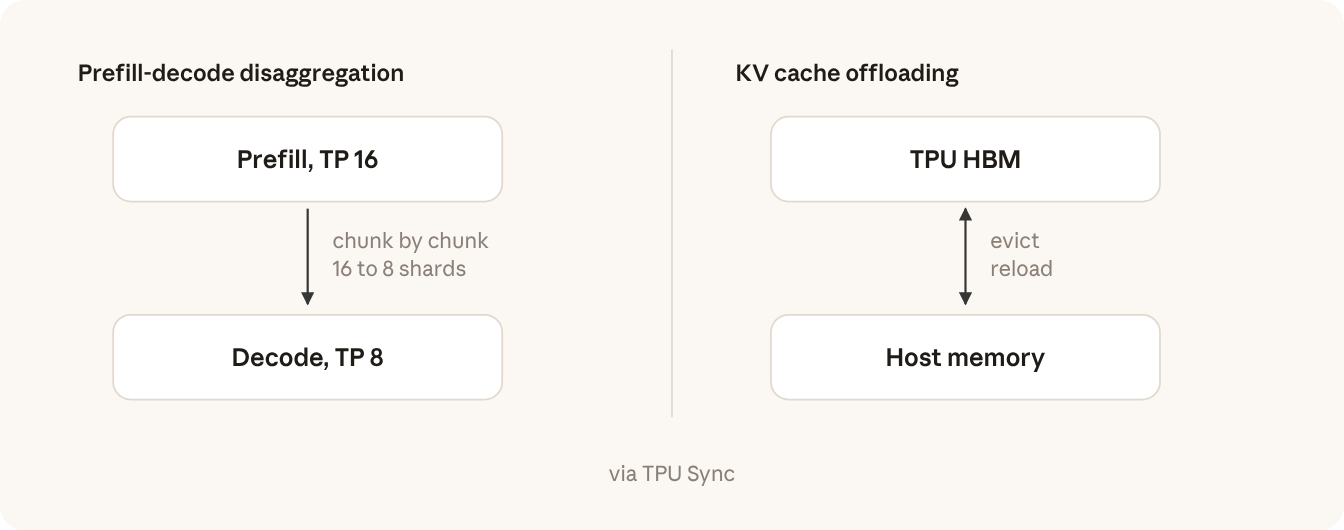
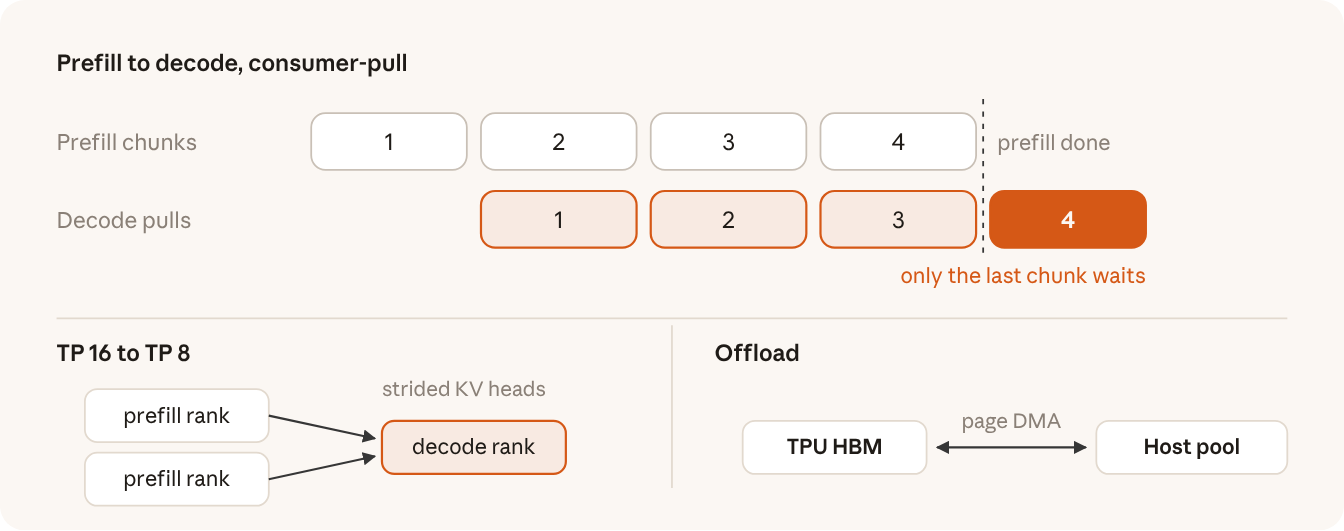
SGLang-TorchTPU post: new title, TL;DR, How it works diagrams, Built with section, Get started and Community

diff --git a/blog/2026-10-20-sglang-torchtpu.md b/blog/2026-10-20-sglang-torchtpu.md
@@ -1,5 +1,5 @@
 ---
-title: "SGLang-TorchTPU: PyTorch-Native Production Serving on TPU, Built with Google and Meta"
+title: "SGLang-TorchTPU: PyTorch-Native Production Serving on TPUs"
 author: "RadixArk, Google and Meta"
 date: "October 20, 2026"
 previewImg: /images/blog/sglang-torchtpu/hero.png
@@ -11,10 +11,11 @@ type: blog
 ## TL;DR
 
 - SGLang-TorchTPU is open source today, built by the SGLang team at RadixArk in collaboration with Google and Meta.
-- Launch models include: Muse Spark Open, GLM-5.3 Flash, GLM-5.3, Kimi K3, DeepSeek V4, Ling 3.1 Flash, Qwen3.8, Gemma 4 and MiniMax H3.
-- Production-ready for agentic workloads and large-model serving.
-- Already running in production at Meta.
-- Can serve as the rollout engine for RL training on TPU, paired with TorchTitan through Miles.
+- Launch models include Muse Spark Open, GLM-5.3 Flash, GLM-5.3, Kimi K3, DeepSeek V4, Ling 3.1 Flash, Qwen3.8, Gemma 4 and MiniMax H3.
+- The plugin brings the full SGLang feature set to TPU, ready for large agentic workloads.
+- Proven in large-scale production at Meta.
+- RL training on TPU works with SGLang-TorchTPU and TorchTitan in Miles.
+- Contributors can apply for free TPU compute from RadixArk's [community TPU capacity pool](https://docs.google.com/forms/d/e/1FAIpQLSenGavH0yrQWfcaMnVbcTg9cPyPHxMZG2LUegYJUYfai828hA/viewform).
 
 ## Introduction
 
@@ -22,13 +23,29 @@ Today we are launching SGLang-TorchTPU, a native PyTorch backend that brings SGL
 
 ## Why TorchTPU
 
-Most models today are written and served in PyTorch, and serving stacks are built on the ecosystem around it, from torch.compile to torch.distributed. We want TPU to fit into that same workflow.
+SGLang's serving engine and model implementations are built on PyTorch. With TorchTPU, the same codebase serves on both GPUs and TPUs, and TPU-specific components remain isolated in the plugin. New models and features added to SGLang could therefore become available on TPU through a single implementation.
 
-TorchTPU makes TPU a native PyTorch device that runs eagerly or compiles through XLA. SGLang-TorchTPU builds on it and brings SGLang's serving features to TPU, on top of TPU-tuned Pallas kernels.
+## How it works
+
+![SGLang core (scheduler, RadixAttention, API server) on top of the sglang-tpu plugin (Pallas ragged paged attention, paged KV cache pools, Pallas grouped matmul MoE, a graph runner that compiles once per bucket), on TorchTPU (one PyTorch process per TPU core, torch.compile to XLA), on Cloud TPU v7x.](/images/blog/sglang-torchtpu/stack.png)
+
+<p style="text-align: center; color: #6b7280; font-size: 0.875rem; font-style: italic; margin-top: 0.25rem;">Figure 1: How the sglang-tpu plugin fits into SGLang.</p>
+
+SGLang-TorchTPU is an out-of-tree plugin. Installing the sglang-tpu package registers a TPU platform with SGLang through the `sglang.srt.platforms` entry point, and `SGLANG_PLATFORM=tpu_oot` selects it. The scheduler, RadixAttention and API server are SGLang's own. The plugin fills in the parts SGLang already asks each hardware platform for: the attention backend, the KV cache pools, the MoE kernels and the graph runner.
+
+Each TPU core runs its own PyTorch process through TorchTPU, as each GPU does on CUDA. The model runs under torch.compile and lowers to XLA. There is no graph capture: instead, the runner pads each forward to a fixed set of token-count buckets for prefill and batch-size buckets for decode. Each bucket compiles once, and later steps dispatch to the cached program by shape.
+
+Attention and MoE run on Pallas kernels, registered as torch.library custom ops that Dynamo treats as opaque calls inside the compiled graph: ragged paged attention over a paged KV cache, and a grouped matmul over the sorted expert groups for MoE.
+
+When KV has to leave the device, for KV cache offloading to host memory or for prefill-decode disaggregation across hosts, it can move over [TPU Sync](https://github.com/google/tpu-sync), Google's open-source TPU DMA library. Offload copies whole KV pages between HBM and a pinned host pool by direct PJRT DMA. For disaggregation the transfer is consumer-pull: as each chunked-prefill step commits its pages, the prefill announces them and the decode side pulls that chunk while the next one computes, so only the last chunk remains to move once prefill finishes. Pages the decode already holds from its own prefix cache are never sent. When prefill and decode use different tensor-parallel sizes, TPU Sync reshards in flight: each prefill rank pushes its slice of the KV heads, strided, into the decode rank's page layout.
+
+![KV cache transfer with TPU Sync: decode pulls each prefill chunk while the next computes, so only the last chunk waits; TP 16 to TP 8 reshards strided KV heads; offload moves KV pages between TPU HBM and a host pool by DMA.](/images/blog/sglang-torchtpu/kv-transfer.png)
+
+<p style="text-align: center; color: #6b7280; font-size: 0.875rem; font-style: italic; margin-top: 0.25rem;">Figure 2: KV cache transfer with TPU Sync.</p>
 
 ## Built with Google and Meta
 
-Google built TorchTPU and worked with us on the TPU backend itself, from Pallas kernels to the TPU Sync transfer path. The SGLang team at RadixArk built the serving runtime, its TPU integration and most of the model support. Meta engineers contributed compilation and disaggregated-serving work, and brought production workloads that shaped the engine from the start.
+Google, Meta and the SGLang team at RadixArk built SGLang-TorchTPU together.
 
 > "As agentic workloads grow, serving efficiency matters more than ever, and developers want to get there on TPU without leaving PyTorch. Co-developing SGLang-TorchTPU with RadixArk and Meta gives them a production-ready engine for popular open models, with the cost efficiency of Cloud TPU."
 >
@@ -38,20 +55,6 @@ Google built TorchTPU and worked with us on the TPU backend itself, from Pallas 
 >
 > <strong style="font-style: normal;">Zongwei Zhou, PyTorch-TPU Lead, Meta</strong>
 
-## How it works
-
-![The SGLang-TorchTPU stack: SGLang core (API server, router, scheduler, RadixAttention, model code) on top of the sglang-tpu plugin (TPU layers, Pallas kernels, KV cache pools, TPU Sync), on top of TorchTPU (tpu device, torch.compile + XLA, torch.distributed), on Cloud TPU v7x.](/images/blog/sglang-torchtpu/stack.png)
-
-<p style="text-align: center; color: #6b7280; font-size: 0.875rem; margin-top: 0.25rem;">Figure 1: The SGLang-TorchTPU stack.</p>
-
-Each device runs its own PyTorch process, so SGLang's scheduler, RadixAttention and API server run unchanged. The TPU work sits underneath them. The KV cache lives in a paged pool laid out for Pallas ragged paged attention, with FP8 KV by default, and Pallas kernels for attention and MoE grouped matmul are called as PyTorch custom ops inside the torch.compile graph. All of it ships as the sglang-tpu plugin, which SGLang loads when you pass `--device tpu`.
-
-KV cache transfers between TPU devices and host memory can run on [TPU Sync](https://github.com/google/tpu-sync), Google's open-source transfer library. For KV cache offloading, it moves KV pages to a DMA-pinned host memory pool. For prefill-decode disaggregation, the decode side pulls KV from prefill chunk by chunk as each prefill step commits, so only the last chunk is left to move when prefill ends. When the two sides use different tensor-parallel sizes, KV is resharded on the way, for example from 16 prefill shards to 8 decode shards.
-
-![KV cache transfer with TPU Sync: in prefill-decode disaggregation, KV moves chunk by chunk from prefill (TP 16) to decode (TP 8); in KV cache offloading, KV is evicted from TPU HBM to host memory and reloaded.](/images/blog/sglang-torchtpu/kv-transfer.png)
-
-<p style="text-align: center; color: #6b7280; font-size: 0.875rem; margin-top: 0.25rem;">Figure 2: KV cache transfer with TPU Sync.</p>
-
 ## Feature and model coverage
 
 These are the SGLang serving features available on TPU at launch:
@@ -60,9 +63,9 @@ These are the SGLang serving features available on TPU at launch:
 | --- | --- |
 | Core serving | OpenAI-compatible API; continuous batching; chunked prefill; structured output and function calling (experimental) |
 | Agentic and multi-turn | RadixAttention prefix caching, including hybrid sliding-window and linear-attention models; KV cache offloading to host memory; tested nightly on an agentic tool-call workload |
-| Interactive, low latency | Speculative decoding with EAGLE-3, DFlash and MTP drafters; DFlash2 and DSPark (experimental) |
+| Interactive, low latency | Speculative decoding with EAGLE-3, DFlash, DFlash2, DSPark and MTP drafters |
 | High-throughput batch | Data-parallel attention with expert parallelism |
-| Long context | FP8 KV cache; context parallelism for prefill and decode (experimental) |
+| Long context | FP8 KV cache; context parallelism for prefill and decode |
 | Disaggregated serving | Prefill and decode on separate hosts, with KV resharding between different tensor-parallel sizes |
 | Multimodal | Vision-language models with image input: Qwen3-VL, Qwen3.5-VL, Kimi MoonViT and Gemma 4 vision |
 | Very large models | Tensor and expert parallelism and data-parallel attention across hosts; FP8, MXFP4 and INT4 checkpoints; pipeline parallelism and NVFP4 MoE (experimental) |
@@ -83,28 +86,27 @@ We have been working hard to bring the most popular open models to TPU at launch
 
 Also supported: gpt-oss, Qwen3-Coder-480B, Qwen3.5, DeepSeek-V3.1 and R1, Kimi-K2.6, MiMo-V2.5-Pro and Qwen3-VL.
 
-We will keep adding new models and optimizing the ones already supported, starting with DeepSeek V4.1 Flash and Reflection Beam.
+We will keep adding new models and optimizing the ones already supported, starting with DeepSeek V4.1 Flash and Reflection Beam, and we are working toward Day 0 TPU support for new open models by Q1 2027.
 
 The full list, with support tiers and per-model notes, is in [SUPPORT.md](https://github.com/sgl-project/sglang-torchtpu/blob/main/SUPPORT.md).
 
 ## Reliability
 
-Reliability is designed into how SGLang-TorchTPU is built. Every model and feature marked supported is tied to a CI test on real TPU hardware, and the support matrix is generated from those test registrations, so what we claim always reflects what we run. Features still being validated are marked Experimental until their tests pass.
+Every model and feature marked supported has a CI test on real TPU hardware, and the support matrix is generated from those test registrations. Anything still being validated stays Experimental until its tests pass.
 
 ![SGLang-TorchTPU support tiers: Experimental moves to Supported with a nightly test, and Supported moves to Optimized with accuracy and performance tests, all on TPU v7x every PR and every night.](/images/blog/sglang-torchtpu/ci-tiers.png)
 
-<p style="text-align: center; color: #6b7280; font-size: 0.875rem; margin-top: 0.25rem;">Figure 3: How models and features move through the support tiers.</p>
+<p style="text-align: center; color: #6b7280; font-size: 0.875rem; font-style: italic; margin-top: 0.25rem;">Figure 3: How models and features move through the support tiers.</p>
 
 Pull requests run a TPU suite on a single-host TPU v7x slice, and together with nightly suites, CI covers 15 models on single-host and multi-host TPU v7x, with 193 TPU tests registered today. They check:
 
 - Kernel correctness
-- End-to-end serving and model accuracy on standard evals such as GSM8K, GPQA, AIME, MMLU-Pro and MMMU
-- Speculative decoding
-- Prefix caching and KV cache offloading
-- Multi-host execution and PD disaggregation, including KV resharding
+- Model accuracy on standard evals such as GSM8K, GPQA, AIME, MMLU-Pro and MMMU
+- Serving features: speculative decoding, prefix caching, KV cache offloading, DP attention, multi-host execution and PD disaggregation with KV resharding
+- Feature combinations, such as speculative decoding with PD disaggregation, and prefix caching with KV cache offloading
 - Agentic tool-call workloads on multi-host deployments
 
-If a model or feature is marked supported, it has passed these tests on TPU v7x and is retested every night, so regressions show up in CI before they reach production.
+Nightly runs repeat these checks for every supported model, so the support matrix stays current.
 
 ## Training with TPU on Miles
 
@@ -114,7 +116,7 @@ The trainer is TorchTitan, PyTorch's native training library, running on TorchTP
 
 ![RL training with Miles on one TPU v7x host: SGLang-TorchTPU generates rollouts on 2 chips, TorchTitan trains on 2 chips, and new weights move back to the engine through shared memory, disk or ICI (planned).](/images/blog/sglang-torchtpu/miles-rl.png)
 
-<p style="text-align: center; color: #6b7280; font-size: 0.875rem; margin-top: 0.25rem;">Figure 4: RL training with Miles on one TPU v7x host.</p>
+<p style="text-align: center; color: #6b7280; font-size: 0.875rem; font-style: italic; margin-top: 0.25rem;">Figure 4: RL training with Miles on one TPU v7x host.</p>
 
 Miles can move the new weights from the trainer to the engine in three ways:
 
@@ -126,7 +128,7 @@ We trained Qwen3-4B with GRPO on DAPO-Math-17k on a single TPU v7x host with 4 c
 
 ![Qwen3-4B GRPO on DAPO-Math-17k: 6x H200 GPU vs. 4 TPU v7x chips](/images/blog/sglang-torchtpu/qwen3-4b-grpo-tpu-vs-gpu.png)
 
-<p style="text-align: center; color: #6b7280; font-size: 0.875rem; margin-top: 0.25rem;">Figure 5: Qwen3-4B GRPO on DAPO-Math-17k, 6x H200 GPUs vs. 4 TPU v7x chips.</p>
+<p style="text-align: center; color: #6b7280; font-size: 0.875rem; font-style: italic; margin-top: 0.25rem;">Figure 5: Qwen3-4B GRPO on DAPO-Math-17k, 6x H200 GPUs vs. 4 TPU v7x chips.</p>
 
 Reward and response length curves on TPU match GPU within seed-to-seed variation, and AIME-24 stays within eval noise.
 
@@ -141,36 +143,29 @@ Miles TPU training is in preview. This small-scale experiment demonstrates an en
 
 ## Get started
 
-Pull the image and start a container on a TPU v7x host:
+On a TPU v7x host, start the prebuilt image, launch a model and send a request:
 
 ```bash
-docker pull lmsysorg/sglang:v0.1.0-tpu
-
+# Start the container
 docker run -it --rm --privileged --net=host --shm-size=64g \
-  -e SGLANG_PLATFORM=tpu_oot \
-  lmsysorg/sglang:v0.1.0-tpu
-```
+  -e SGLANG_PLATFORM=tpu_oot lmsysorg/sglang:v0.1.0-tpu
 
-Inside the container, launch GPT-OSS-20B with the single-host recipe, then send a request:
+# Inside the container, launch GPT-OSS-20B
+python -m benchmark.tpu.launch_server \
+  --config recipe/configs/gpt_oss_20b/server.py
 
-```bash
-python -m benchmark.tpu.launch_server --config recipe/configs/gpt_oss_20b/server.py
-
+# From another terminal, send a request
 curl http://localhost:30000/v1/chat/completions \
   -H "Content-Type: application/json" \
   -d '{"model": "gpt-oss-20b", "messages": [{"role": "user", "content": "Hello"}]}'
 ```
 
-To install with pip or from source instead, see the [README](https://github.com/sgl-project/sglang-torchtpu#get-started).
-
-- GitHub: [sgl-project/sglang-torchtpu](https://github.com/sgl-project/sglang-torchtpu)
-- Supported models and features: [SUPPORT.md](https://github.com/sgl-project/sglang-torchtpu/blob/main/SUPPORT.md), with the test behind each row in [SUPPORT_MATRIX.md](https://github.com/sgl-project/sglang-torchtpu/blob/main/SUPPORT_MATRIX.md)
-- Cookbook: [cookbook.sglang.io](https://cookbook.sglang.io/)
+To install with pip or from source, see the [README](https://github.com/sgl-project/sglang-torchtpu#get-started). The [TPU guide](https://docs.sglang.io/docs/hardware-platforms/tpu) covers deployment, the [recipes](https://github.com/sgl-project/sglang-torchtpu/blob/main/benchmark/tpu/recipe/README.md) have ready-to-run server configs, and [SUPPORT.md](https://github.com/sgl-project/sglang-torchtpu/blob/main/SUPPORT.md) lists the supported models and features.
 
 ## Community
 
-We are working toward Day 0 TPU support for new open models by Q1 2027.
+RadixArk is offering free TPU compute to developers who contribute to SGLang-TorchTPU. [Apply for the community TPU capacity pool here](https://docs.google.com/forms/d/e/1FAIpQLSenGavH0yrQWfcaMnVbcTg9cPyPHxMZG2LUegYJUYfai828hA/viewform).
 
-- RadixArk is opening a [community TPU capacity pool](https://docs.google.com/forms/d/e/1FAIpQLSenGavH0yrQWfcaMnVbcTg9cPyPHxMZG2LUegYJUYfai828hA/viewform) with free compute for developers who contribute to [SGLang-TorchTPU](https://github.com/sgl-project/sglang-torchtpu).
-- To ask questions, join #torchtpu on the [SGLang Slack](https://slack.sglang.io). To request a model or propose a feature, open an issue on [GitHub](https://github.com/sgl-project/sglang-torchtpu).
-- Google, Meta and RadixArk will share more at SGLang Summit 2026, November 12 to 13 at Fort Mason, San Francisco ([sglang.io/summit](https://sglang.io/summit)).
+For questions, join #torchtpu on the [SGLang Slack](https://slack.sglang.io). To request a model or propose a feature, [open an issue on GitHub](https://github.com/sgl-project/sglang-torchtpu/issues).
+
+Google, Meta and RadixArk will share more at [SGLang Summit 2026](https://sglang.io/summit), November 12 to 13 at Fort Mason, San Francisco.
